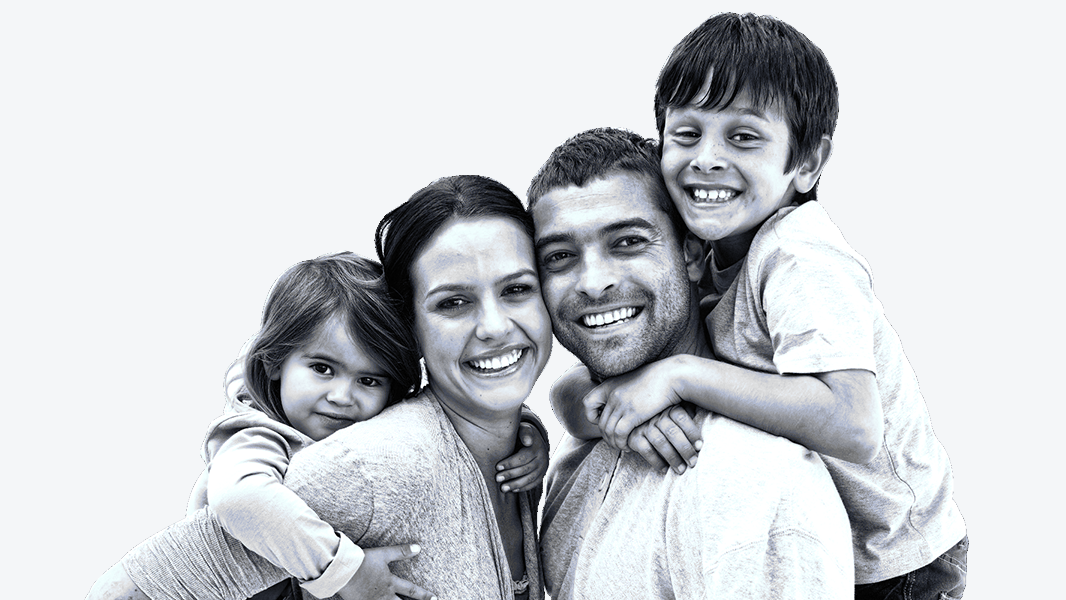
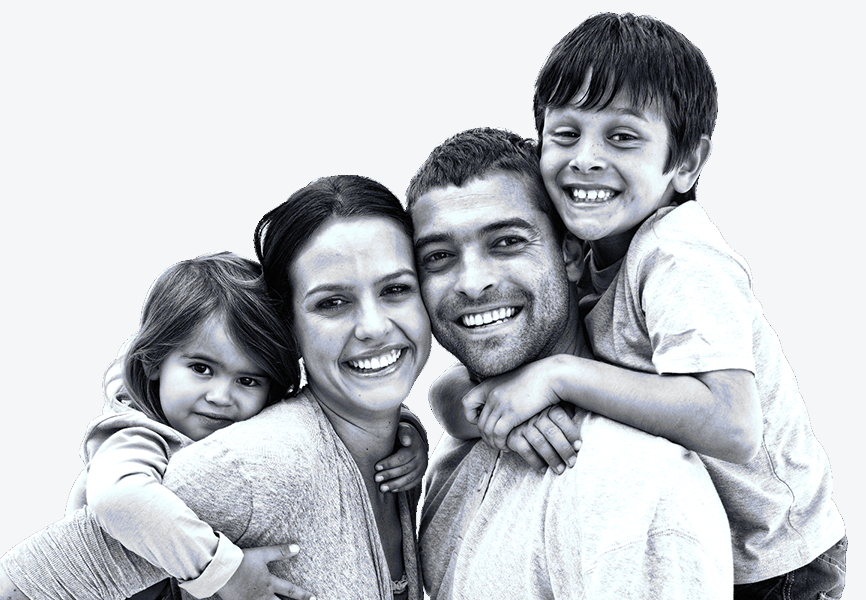
re sizing hero image, styled button

diff --git a/src/Components/Hero/hero.jsx b/src/Components/Hero/hero.jsx
@@ -1,7 +1,9 @@
 import React from 'react';
 import styles from './hero.module.css';
 import hero from '../../images/family_hero.png';
-import hero2 from '../../images/fam_grey.png';
+import hero2 from '../../images/fam_grey_crop.png';
+
+import 'animate.css';
 function Hero() {
   return (
     <div>
@@ -14,8 +16,16 @@ function Hero() {
 
         <div className={styles.hero_text}>
           <div className={styles.headers}>
-            <h1 className={styles.hero_heading}>Don't Wait to Plan</h1>
-            <h1 className={(styles.hero_heading, styles.second_tagline)}>
+            <h1
+              className={' animate__animated' && 'animate__bounce'}
+              className={styles.hero_heading}
+            >
+              Don't Wait to Plan
+            </h1>
+            <h1
+              class='animate__animated animate__bounce animate__faster'
+              className={(styles.hero_heading, styles.second_tagline)}
+            >
               Be Ready now
             </h1>
           </div>

diff --git a/src/Components/Navigation/nav.module.css b/src/Components/Navigation/nav.module.css
@@ -20,8 +20,8 @@
 }
 
 .acr_logo {
-  max-width: 140px;
-  max-height: 140px;
+  max-width: 100px;
+  max-height: 100px;
   align-self: center;
   justify-self: left;
   grid-area: acr_logo;
@@ -36,7 +36,7 @@
   align-self: center;
   align-items: center;
   justify-content: space-between;
-  padding-left: 8%;
+  padding-left: 12%;
 
   /*IE styles*/
   -ms-grid-row: 1;

diff --git a/src/Components/NotifiedSection/notified.module.css b/src/Components/NotifiedSection/notified.module.css
@@ -61,9 +61,9 @@
   grid-row: 3/4;
   padding: 2% 5%;
   border: none;
-  border-radius: 5%;
   font-size: 1.85rem;
-  border-left: 6px double #cfedfb;
+  border-left: 20px double #cfedfb;
+  border-right: 20px double #cfedfb;
   display: block;
 
   -ms-grid-row: 3;
